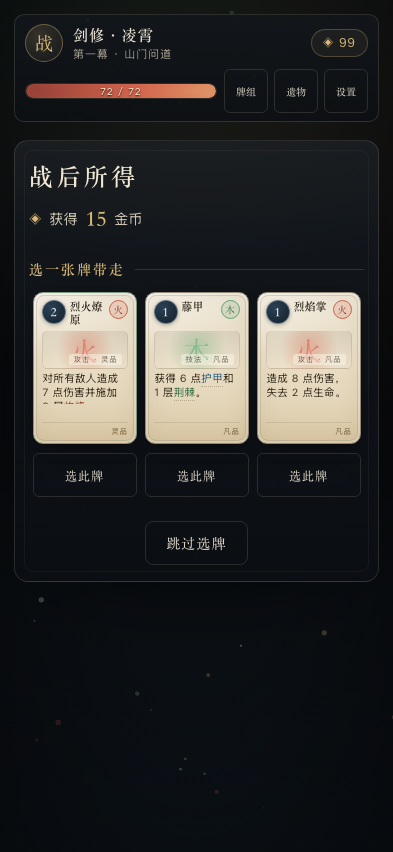
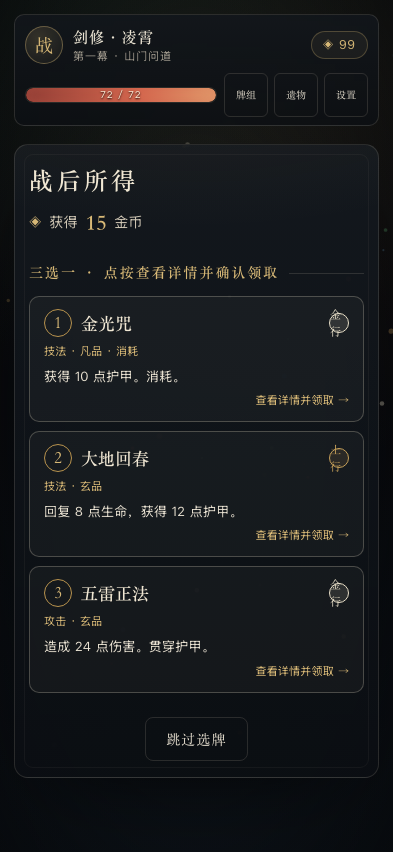
fix ui01

diff --git a/js/ui.js b/js/ui.js
@@ -50,11 +50,11 @@
     const el = elem(id);
     return `<span class="elem-badge" style="--el:${el.color};--el-dark:${el.dark}" title="${esc(el.name)}行">${esc(label || el.glyph)}</span>`;
   }
-  function statusChips(statuses, who) {
+  function statusChips(statuses, owner, index) {
     if (!statuses) return '';
     return Object.keys(D.statuses).filter(k => statuses[k] > 0).map(k => {
       const s = D.statuses[k];
-      return `<span class="status-chip ${s.debuff ? 'debuff' : 'buff'}" title="${esc(s.name)}：${esc(s.desc)}">${esc(s.glyph)}<b>${statuses[k]}</b></span>`;
+      return `<button type="button" class="status-chip ${s.debuff ? 'debuff' : 'buff'}" data-action="inspect-status" data-status="${k}" data-owner="${owner}" ${owner === 'enemy' ? `data-index="${index}"` : ''} title="${esc(s.name)}：${esc(s.desc)}" aria-label="${esc(s.name)} ${statuses[k]} 层：${esc(s.desc)}">${esc(s.glyph)}<b>${statuses[k]}</b></button>`;
     }).join('');
   }
   function weakElement(enemyElem) {
@@ -193,7 +193,7 @@
         this.resizeBackground();
         clearTimeout(this._resizeTimer);
         this._resizeTimer = setTimeout(() => {
-          if (!this.busy && this.state && this.screen === 'combat') this.render();
+          if (!this.busy && this.state && (this.screen === 'combat' || this.screen === 'reward')) this.render();
         }, 160);
       });
     },
@@ -229,13 +229,24 @@
         case 'inspect-enemy': this.openDetail({ kind: 'enemy', id: el.dataset.id, index: idx }); break;
         case 'inspect-relic': this.openDetail({ kind: 'relic', id: el.dataset.id }); break;
         case 'inspect-potion': this.openDetail({ kind: 'potion', id: el.dataset.id }); break;
+        case 'inspect-status': {
+          const key = el.dataset.status;
+          const owner = el.dataset.owner;
+          const index = owner === 'enemy' ? Number(el.dataset.index) : null;
+          const c = this.state && this.state.combat;
+          const entity = c && (owner === 'player' ? c : owner === 'enemy' ? c.enemies[index] : null);
+          if (D.statuses[key] && entity && entity.statuses && entity.statuses[key] > 0) {
+            this.openDetail({ kind: 'status', id: key, count: entity.statuses[key], ownerName: owner === 'player' ? '自身' : entity.name });
+          }
+          break;
+        }
         case 'confirm-detail': this.confirmDetail(); break;
         case 'view-deck': this.overlay = 'deck'; this.render(); break;
         case 'view-relics': this.overlay = 'relics'; this.render(); break;
         case 'open-piles': this.pile = el.dataset.pile; this.overlay = 'piles'; this.render(); break;
         case 'close-overlay': this.closeOverlay(); break;
         case 'take-card':
-          if (window.innerWidth <= 600) this.inspectRewardCard(Number(el.dataset.index));
+          if (window.innerWidth <= 600 || el.dataset.confirm === '1') this.inspectRewardCard(Number(el.dataset.index));
           else this.takeRewardCard(Number(el.dataset.index));
           break;
         case 'skip-card': this.skipReward(); break;
@@ -1117,7 +1128,7 @@
               ${hpBarHTML(st.hp, st.maxHp)}
               <div class="player-sub">
                 ${c.block > 0 ? `<span class="block-pill" title="护甲">甲 ${c.block}</span>` : ''}
-                <span class="statuses">${statusChips(c.statuses)}</span>
+                <span class="statuses">${statusChips(c.statuses, 'player')}</span>
               </div>
               <div class="relic-strip">${st.relics.map(id => relicChip(id, { inspect: true })).join('')}</div>
             </div>
@@ -1182,7 +1193,7 @@
           <div class="enemy-sub">
             ${e.block > 0 ? `<span class="block-pill">甲 ${e.block}</span>` : ''}
             ${e.phase === 2 ? '<span class="phase-tag">狂怒</span>' : ''}
-            <span class="statuses">${statusChips(e.statuses)}</span>
+            <span class="statuses">${statusChips(e.statuses, 'enemy', i)}</span>
           </div>
         </div>
       </div>`;
@@ -1218,8 +1229,24 @@
     rewardHTML() {
       const st = this.state;
       const r = st.reward;
+      const mobile = window.innerWidth <= 600;
       const titles = { combat: '战后所得', elite: '精英战利品', boss: '幕主遗藏' };
       const chosen = r.selected >= 0 && r.cards[r.selected] ? cardData(r.cards[r.selected]) : null;
+      const choices = r.cards.map((inst, i) => {
+        if (!mobile) return `<div class="choice-slot ${r.cardTaken && r.selected === i ? 'chosen' : ''} ${r.cardTaken && r.selected !== i ? 'faded' : ''}" ${!r.cardTaken ? `data-action="take-card" data-index="${i}"` : ''}>
+          ${cardHTML(inst, { mode: 'choice' })}
+          ${!r.cardTaken ? `<button class="btn btn-ghost btn-sm choice-btn" data-action="take-card" data-index="${i}">选此牌</button>` : ''}
+        </div>`;
+        const data = cardData(inst);
+        const tag = r.cardTaken ? 'div' : 'button';
+        const traits = [data.exhaust ? '消耗' : '', data.retain ? '保留' : '', inst.up ? '已悟' : ''].filter(Boolean);
+        return `<${tag} class="reward-option ${r.cardTaken && r.selected === i ? 'chosen' : ''} ${r.cardTaken && r.selected !== i ? 'faded' : ''}" ${r.cardTaken ? '' : `type="button" data-action="take-card" data-index="${i}" data-confirm="1"`}>
+          <span class="reward-option-top"><span class="reward-option-cost">${data.cost}</span><span class="reward-option-name">${esc(data.name)}</span>${elemBadge(data.element, elem(data.element).name + '行')}</span>
+          <span class="reward-option-meta">${TYPE_NAMES[data.type] || ''} · ${RARITY_LABEL[data.rarity] || ''}${traits.length ? ` · ${traits.join(' · ')}` : ''}</span>
+          <span class="reward-option-text">${esc(data.text)}</span>
+          <span class="reward-option-cta">${r.cardTaken ? r.selected === i ? '已领取' : '' : '查看详情并领取 →'}</span>
+        </${tag}>`;
+      }).join('');
       return `
       <main class="screen panel-screen reward-screen">
         ${this.miniHeader('战利品', E.getActName(st.act))}
@@ -1229,13 +1256,8 @@
           ${r.relicId ? `<div class="reward-relic">${relicChip(r.relicId, { big: true, showName: true })}<span>${esc(relicById(r.relicId).desc)}</span></div>` : ''}
           ${r.potionId ? `<div class="reward-potion">获得丹药：${potionChip(r.potionId)} <b>${esc(potionById(r.potionId).name)}</b></div>` : ''}
           ${r.potionFull ? '<p class="dim">丹药腰带已满，多余丹药化为 20 金币。</p>' : ''}
-          <h2 class="sub-title">${r.cardTaken ? '已收入囊中' : window.innerWidth <= 600 ? '点按卡牌查看详情，确认后领取' : '选一张牌带走'}</h2>
-          <div class="card-choice-row">
-            ${r.cards.map((inst, i) => `<div class="choice-slot ${r.cardTaken && r.selected === i ? 'chosen' : ''} ${r.cardTaken && r.selected !== i ? 'faded' : ''}" ${!r.cardTaken ? `data-action="take-card" data-index="${i}"` : ''}>
-              ${cardHTML(inst, { mode: 'choice' })}
-              ${!r.cardTaken ? `<button class="btn btn-ghost btn-sm choice-btn" data-action="take-card" data-index="${i}">选此牌</button>` : ''}
-            </div>`).join('')}
-          </div>
+          <h2 class="sub-title">${r.cardTaken ? '已收入囊中' : mobile ? '三选一 · 点按查看详情并确认领取' : '选一张牌带走'}</h2>
+          <div class="${mobile ? 'reward-option-list' : 'card-choice-row'}">${choices}</div>
           ${chosen ? `<p class="chosen-note">「${esc(chosen.name)}」已加入牌组。</p>` : ''}
           <div class="panel-actions">
             ${!r.cardTaken ? `<button class="btn btn-ghost" data-action="skip-card">跳过选牌</button>` : `<button class="btn btn-primary" data-action="continue-reward">继续前行</button>`}
@@ -1507,6 +1529,11 @@
         if (!r) return '';
         title = r.name;
         body = `<div class="detail-glyph">${esc(r.name.slice(0, 1))}</div><div class="detail-meta"><span>${RARITY_LABEL[r.rarity] || '法器'}</span></div><p class="detail-text">${formatText(r.desc)}</p>`;
+      } else if (d.kind === 'status') {
+        const status = D.statuses[d.id];
+        if (!status) return '';
+        title = status.name;
+        body = `<div class="detail-glyph">${esc(status.glyph)}</div><div class="detail-meta"><span>${status.debuff ? '负面状态' : '增益状态'}</span><span>${esc(d.ownerName)} · 当前 ${d.count} 层</span></div><p class="detail-text">${formatText(status.desc)}</p>`;
       } else if (d.kind === 'character') {
         const ch = D.characters.find(x => x.id === d.id);
         if (!ch) return '';

diff --git a/js/data.js b/js/data.js
@@ -137,7 +137,7 @@
     { id: 'qing_mu', name: '青木长生', element: 'wood', cost: 2, type: 'skill', rarity: 'rare', text: '回复 10 点生命，获得 5 层回春。',
       effects: [{ op: 'heal', value: 10 }, { op: 'status', status: 'regen', value: 5, target: 'self' }],
       up: { effects: [{ op: 'heal', value: 14 }, { op: 'status', status: 'regen', value: 7, target: 'self' }], text: '回复 14 点生命，获得 7 层回春。' } },
-    { id: 'wan_mu', name: '万木朝春', element: 'wood', cost: 3, type: 'skill', rarity: 'rare', text: '回复 12 点生命，抽 2 张牌，清除自身负面状态。',
+    { id: 'wan_mu', name: '万木朝春', element: 'wood', cost: 2, type: 'skill', rarity: 'rare', text: '回复 12 点生命，抽 2 张牌，清除自身负面状态。',
       effects: [{ op: 'heal', value: 12 }, { op: 'draw', value: 2 }, { op: 'cleanse' }],
       up: { effects: [{ op: 'heal', value: 16 }, { op: 'draw', value: 3 }, { op: 'cleanse' }], text: '回复 16 点生命，抽 3 张牌，清除自身负面状态。' } },
     { id: 'du_zhang', name: '毒瘴', element: 'wood', cost: 2, type: 'skill', rarity: 'uncommon', text: '对所有敌人施加 4 层中毒。',
@@ -146,7 +146,7 @@
     { id: 'teng_jia', name: '藤甲', element: 'wood', cost: 1, type: 'skill', rarity: 'common', text: '获得 6 点护甲和 1 层荆棘。',
       effects: [{ op: 'block', value: 6 }, { op: 'status', status: 'thorns', value: 1, target: 'self' }],
       up: { effects: [{ op: 'block', value: 9 }, { op: 'status', status: 'thorns', value: 2, target: 'self' }], text: '获得 9 点护甲和 2 层荆棘。' } },
-    { id: 'mu_ling', name: '木灵生长', element: 'wood', cost: 2, type: 'skill', rarity: 'uncommon', text: '获得 2 层回春，抽 1 张牌。',
+    { id: 'mu_ling', name: '木灵生长', element: 'wood', cost: 1, type: 'skill', rarity: 'uncommon', text: '获得 2 层回春，抽 1 张牌。',
       effects: [{ op: 'status', status: 'regen', value: 2, target: 'self' }, { op: 'draw', value: 1 }],
       up: { effects: [{ op: 'status', status: 'regen', value: 3, target: 'self' }, { op: 'draw', value: 2 }], text: '获得 3 层回春，抽 2 张牌。' } },
 
@@ -189,9 +189,9 @@
     { id: 'da_di', name: '大地回春', element: 'earth', cost: 2, type: 'skill', rarity: 'rare', text: '回复 8 点生命，获得 12 点护甲。',
       effects: [{ op: 'heal', value: 8 }, { op: 'block', value: 12 }],
       up: { effects: [{ op: 'heal', value: 12 }, { op: 'block', value: 16 }], text: '回复 12 点生命，获得 16 点护甲。' } },
-    { id: 'luo_shi', name: '落石', element: 'earth', cost: 2, type: 'attack', rarity: 'common', text: '造成 12 点伤害。',
-      effects: [{ op: 'damage', value: 12 }],
-      up: { effects: [{ op: 'damage', value: 16 }], text: '造成 16 点伤害。' } },
+    { id: 'luo_shi', name: '落石', element: 'earth', cost: 2, type: 'attack', rarity: 'common', text: '造成 16 点伤害。',
+      effects: [{ op: 'damage', value: 16 }],
+      up: { effects: [{ op: 'damage', value: 21 }], text: '造成 21 点伤害。' } },
     { id: 'ci_shi', name: '磁石', element: 'earth', cost: 1, type: 'skill', rarity: 'common', text: '获得 6 点护甲，抽 1 张牌。',
       effects: [{ op: 'block', value: 6 }, { op: 'draw', value: 1 }],
       up: { effects: [{ op: 'block', value: 9 }, { op: 'draw', value: 1 }], text: '获得 9 点护甲，抽 1 张牌。' } },
@@ -221,9 +221,9 @@
     { id: 'jin_guang', name: '金光咒', element: 'metal', cost: 1, type: 'skill', rarity: 'common', text: '获得 10 点护甲。消耗。',
       effects: [{ op: 'block', value: 10 }], exhaust: true,
       up: { effects: [{ op: 'block', value: 14 }], text: '获得 14 点护甲。消耗。' } },
-    { id: 'she_ji', name: '射日', element: 'metal', cost: 2, type: 'attack', rarity: 'uncommon', text: '造成 8 点伤害。若连携达到 3，抽 2 张牌。',
-      effects: [{ op: 'damage', value: 8 }, { op: 'draw', value: 2, cond: { chainAtLeast: 3 } }],
-      up: { effects: [{ op: 'damage', value: 12 }, { op: 'draw', value: 2, cond: { chainAtLeast: 3 } }], text: '造成 12 点伤害。若连携达到 3，抽 2 张牌。' } },
+    { id: 'she_ji', name: '射日', element: 'metal', cost: 2, type: 'attack', rarity: 'uncommon', text: '造成 11 点伤害。若连携达到 3，抽 2 张牌。',
+      effects: [{ op: 'damage', value: 11 }, { op: 'draw', value: 2, cond: { chainAtLeast: 3 } }],
+      up: { effects: [{ op: 'damage', value: 15 }, { op: 'draw', value: 2, cond: { chainAtLeast: 3 } }], text: '造成 15 点伤害。若连携达到 3，抽 2 张牌。' } },
 
     /* ===== 水 ===== */
     { id: 'shui_dun', name: '水盾', element: 'water', cost: 1, type: 'skill', rarity: 'common', text: '获得 8 点护甲。',
@@ -264,9 +264,9 @@
     { id: 'gui_yuan', name: '归元', element: 'none', cost: 2, type: 'skill', rarity: 'rare', exhaust: true, text: '获得 2 点灵气，抽 2 张牌。消耗。',
       effects: [{ op: 'energy', value: 2 }, { op: 'draw', value: 2 }],
       up: { effects: [{ op: 'energy', value: 2 }, { op: 'draw', value: 3 }], text: '获得 2 点灵气，抽 3 张牌。消耗。' } },
-    { id: 'po_fu', name: '破釜沉舟', element: 'none', cost: 2, type: 'attack', rarity: 'rare', exhaust: true, text: '造成 20 点伤害。消耗。',
-      effects: [{ op: 'damage', value: 20 }],
-      up: { effects: [{ op: 'damage', value: 28 }], text: '造成 28 点伤害。消耗。' } },
+    { id: 'po_fu', name: '破釜沉舟', element: 'none', cost: 2, type: 'attack', rarity: 'rare', exhaust: true, text: '造成 26 点伤害。消耗。',
+      effects: [{ op: 'damage', value: 26 }],
+      up: { effects: [{ op: 'damage', value: 34 }], text: '造成 34 点伤害。消耗。' } },
     { id: 'xiu_xing', name: '修行', element: 'none', cost: 1, type: 'skill', rarity: 'uncommon', text: '回复 5 点生命，获得 1 点锐气。',
       effects: [{ op: 'heal', value: 5 }, { op: 'status', status: 'strength', value: 1, target: 'self' }],
       up: { effects: [{ op: 'heal', value: 8 }, { op: 'status', status: 'strength', value: 2, target: 'self' }], text: '回复 8 点生命，获得 2 点锐气。' } },

diff --git a/css/style.css b/css/style.css
@@ -148,9 +148,9 @@ button:focus-visible { outline: 2px solid var(--gold); outline-offset: 3px; }
 }
 .statuses { display: inline-flex; gap: 4px; flex-wrap: wrap; }
 .status-chip {
-  display: inline-flex; gap: 3px; align-items: center; padding: 1px 6px; border-radius: 10px;
+  display: inline-flex; gap: 3px; align-items: center; justify-content: center; padding: 1px 6px; border-radius: 10px;
   border: 1px solid rgba(232, 223, 200, 0.16); font-size: 10px; background: rgba(0, 0, 0, 0.25);
-  color: #d8d1c2;
+  color: #d8d1c2; cursor: pointer;
 }
 .status-chip b { font-size: 10px; color: #fff0cf; }
 .status-chip.debuff { border-color: rgba(207, 91, 73, 0.36); color: #e2a397; }
@@ -661,6 +661,26 @@ button:focus-visible { outline: 2px solid var(--gold); outline-offset: 3px; }
 .choice-slot.chosen .card-inner { border-color: var(--gold); box-shadow: 0 0 0 2px rgba(216, 185, 119, 0.5); }
 .choice-slot.faded { opacity: 0.28; filter: grayscale(0.6); }
 .choice-btn { width: 100%; }
+.reward-option-list { display: flex; flex-direction: column; gap: 10px; }
+.reward-option {
+  display: flex; flex-direction: column; gap: 6px; width: 100%; min-height: 112px;
+  border: 1px solid var(--line-strong); border-radius: 10px; padding: 12px 14px;
+  background: rgba(236, 226, 203, 0.04); color: var(--text); text-align: left;
+  font: inherit; cursor: pointer;
+}
+.reward-option-top { display: flex; align-items: center; gap: 9px; }
+.reward-option-cost {
+  display: inline-flex; align-items: center; justify-content: center; flex: none;
+  width: 28px; height: 28px; border: 1px solid var(--gold-2); border-radius: 50%;
+  color: var(--gold); font-family: var(--serif); font-size: 16px;
+}
+.reward-option-name { flex: 1; min-width: 0; color: #f1e8d4; font-family: var(--serif); font-size: 17px; font-weight: 600; }
+.reward-option-meta { color: var(--gold); font-size: 11px; }
+.reward-option-text { color: var(--text); font-size: 13px; line-height: 1.55; white-space: pre-line; overflow-wrap: anywhere; }
+.reward-option-cta { align-self: flex-end; color: var(--gold); font-size: 11px; }
+.reward-option.chosen { border-color: var(--gold); background: rgba(216, 185, 119, 0.1); cursor: default; }
+.reward-option.faded { opacity: 0.4; cursor: default; }
+@media (hover: hover) and (pointer: fine) { .reward-option:hover:not(.chosen):not(.faded) { border-color: var(--gold); background: rgba(216, 185, 119, 0.08); } }
 .chosen-note { text-align: center; color: var(--gold); font-size: 12px; letter-spacing: 0.08em; margin-top: 14px; }
 .dim { color: var(--muted); }
 
@@ -1119,20 +1139,11 @@ body.zhoutian-flash::after {
 }
 
 @media (max-width: 600px) {
+  .status-chip { min-width: 44px; min-height: 44px; touch-action: manipulation; }
   /* 奖励 / 商店 / 休整 / 事件 / 结算 */
   .panel { padding: 16px 14px; }
   .panel h1 { font-size: 24px; }
-  .reward-panel .card-choice-row { display: grid; grid-template-columns: repeat(3, 104px); justify-content: center; gap: 8px; }
-  .card-choice-row .card { width: 104px; height: 152px; }
-  .card-choice-row .card-art { height: 38px; margin: 3px 0 2px; }
-  .card-choice-row .card-watermark { font-size: 28px; }
-  .card-choice-row .card-top { align-items: flex-start; min-height: 28px; }
-  .card-choice-row .card-name { font-size: 11px; letter-spacing: 0; line-height: 1.2;
-    white-space: normal; overflow: hidden; display: -webkit-box; -webkit-line-clamp: 2; -webkit-box-orient: vertical; }
-  .card-choice-row .card-text { font-size: 10.5px; line-height: 1.3; }
-  .card-choice-row .card-type, .card-choice-row .card-foot { font-size: 7.5px; }
-  .choice-slot { min-width: 0; }
-  .choice-btn { min-height: 44px; font-size: 12px; padding: 6px 2px; white-space: nowrap; }
+  .reward-option-list { gap: 9px; }
   .chosen-note { font-size: 11px; }
 
   .shop-panel { padding: 14px; }

diff --git a/test/engine.test.js b/test/engine.test.js
@@ -38,6 +38,85 @@ function setHand(c, ids, up) {
 }
 function card(uid, id) { return { uid, id, up: false, temp: false }; }
 
+test('落石在同费初始牌之上提供更高的直接伤害', () => {
+  const base = DATA.cardMap.duan_yue.effects[0].value;
+  const s = fresh('sword');
+  const { c, e } = battle(s);
+  c.energy = 2;
+  setHand(c, ['luo_shi']);
+  const hp = e.hp;
+  assert.ok(E.playCard(s, 0, 0).ok);
+  assert.ok(hp - e.hp > base);
+  assert.match(DATA.cardMap.luo_shi.text, new RegExp(String(hp - e.hp)));
+});
+
+test('木灵生长可用一费补充回春并替换手牌', () => {
+  const s = fresh('sword');
+  const { c } = battle(s);
+  c.energy = 1;
+  setHand(c, ['mu_ling']);
+  c.drawPile = [card('drawn', 'jin_ren')];
+  assert.ok(E.canPlayCard(s, 0).ok);
+  assert.ok(E.playCard(s, 0, 0).ok);
+  assert.equal(c.statuses.regen, 2);
+  assert.equal(c.hand.length, 1);
+});
+
+test('万木朝春在两费时治疗、净化并抽牌', () => {
+  const s = fresh('sword');
+  const { c } = battle(s);
+  c.energy = 2;
+  c.statuses.poison = 3;
+  s.hp -= 20;
+  const hp = s.hp;
+  setHand(c, ['wan_mu']);
+  c.drawPile = [card('a', 'jin_ren'), card('b', 'liu_yun')];
+  assert.ok(E.playCard(s, 0, 0).ok);
+  assert.equal(s.hp, hp + 12);
+  assert.equal(c.statuses.poison, 0);
+  assert.equal(c.hand.length, 2);
+});
+
+test('射日达到三层连携时兼具伤害与两张抽牌', () => {
+  const s = fresh('sword');
+  const { c, e } = battle(s);
+  c.energy = 2;
+  c.chain = 2;
+  c.currentElement = 'earth';
+  setHand(c, ['she_ji']);
+  c.drawPile = [card('a', 'jin_ren'), card('b', 'liu_yun')];
+  const hp = e.hp;
+  assert.ok(E.playCard(s, 0, 0).ok);
+  assert.ok(hp - e.hp >= 14);
+  assert.equal(c.hand.length, 2);
+});
+
+test('破釜沉舟以单次高伤害弥补消耗与无属性', () => {
+  const s = fresh('sword');
+  const { c, e } = battle(s);
+  c.energy = 2;
+  setHand(c, ['po_fu']);
+  const hp = e.hp;
+  assert.ok(E.playCard(s, 0, 0).ok);
+  assert.ok(hp - e.hp >= 26);
+  assert.equal(c.exhaustPile.length, 1);
+});
+
+test('调整后的升级牌费用、伤害与说明保持一致', () => {
+  for (const [id, baseValue, upgradedValue] of [['luo_shi', 16, 21], ['she_ji', 11, 15], ['po_fu', 26, 34]]) {
+    const base = E.getCardData({ id, up: false });
+    const upgraded = E.getCardData({ id, up: true });
+    assert.equal(base.effects[0].value, baseValue, id);
+    assert.equal(upgraded.effects[0].value, upgradedValue, id);
+    assert.ok(base.text.includes(String(baseValue)), id);
+    assert.ok(upgraded.text.includes(String(upgradedValue)), id);
+  }
+  for (const id of ['mu_ling', 'wan_mu']) {
+    assert.equal(E.getCardData({ id, up: false }).cost, id === 'mu_ling' ? 1 : 2);
+    assert.equal(E.getCardData({ id, up: true }).cost, id === 'mu_ling' ? 1 : 2);
+  }
+});
+
 /* ---------- data ---------- */
 test('数据完整性：id、元素、升级、效果', () => {
   const ids = new Set();

diff --git a/README.md b/README.md
@@ -21,7 +21,9 @@
 已适配 iPhone 15 Pro 等竖屏手机（iPhone Safari / Chrome）：
 
 - 战斗页手牌横向滑动，结束回合独立成行，不再遮挡手牌；丹药与牌堆移到手牌上方。
-- 点按手牌、丹药或战后奖励卡牌，先查看完整说明，再确认出牌、使用或领取；点按角色、敌人、遗物也可查看详情。
+- 战后奖励的三张卡牌纵向排列，直接展示完整效果与属性；点按后查看详情并确认领取。
+- 点按手牌或丹药，先查看完整说明，再确认出牌或使用；点按角色、敌人、遗物也可查看详情。
+- 战斗中的增益与负面状态可点开查看当前层数、完整效果和结算时机。
 - 图鉴增加角色与丹药分类；已识卡牌、敌人和遗物均可点开查看完整资料。
 - 地图页 HUD 折成两行，牌组 / 遗物 / 设置始终可点，地图节点放大到 64px。
 - 支持刘海与 Home 指示条安全区、动态视口高度、触屏按压反馈；无横向滚动。
@@ -128,7 +130,7 @@
 ## 开发与测试
 
 ```bash
-# 规则与手机交互测试（36 项）
+# 规则与手机交互测试（45 项）
 npm test
 
 # 自动模拟对局：600 局，默认天劫 0
